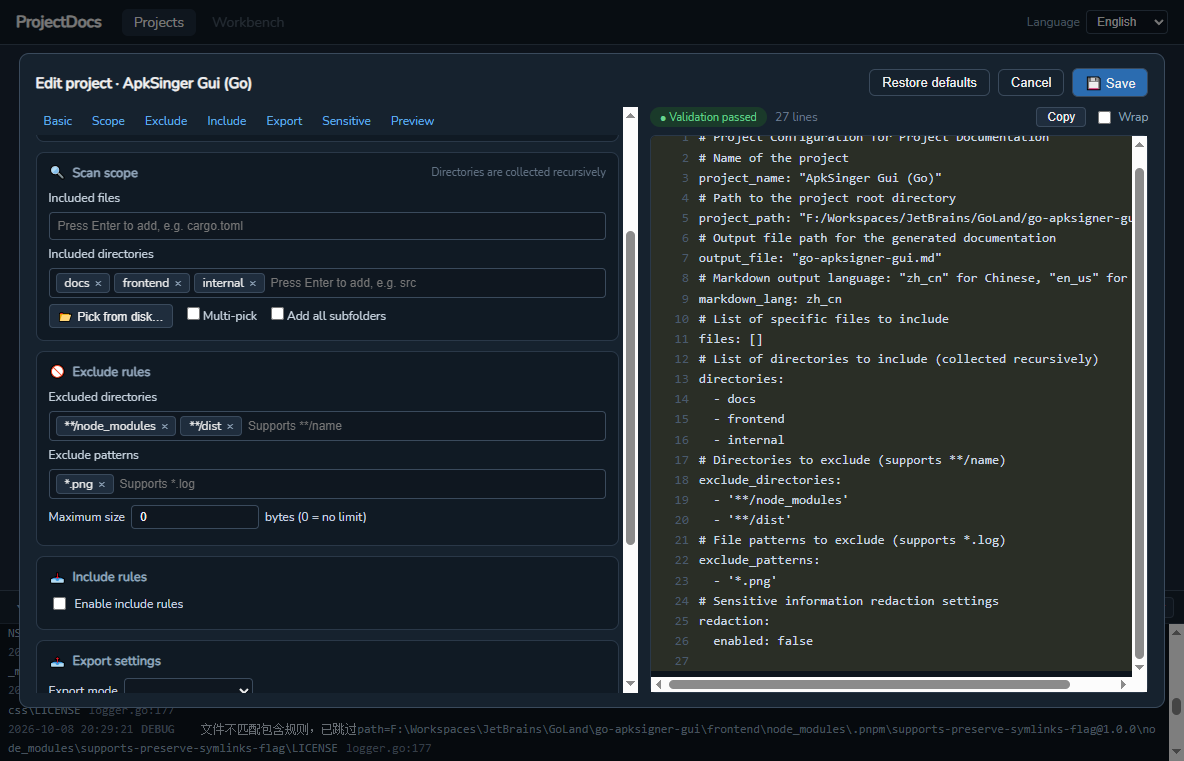
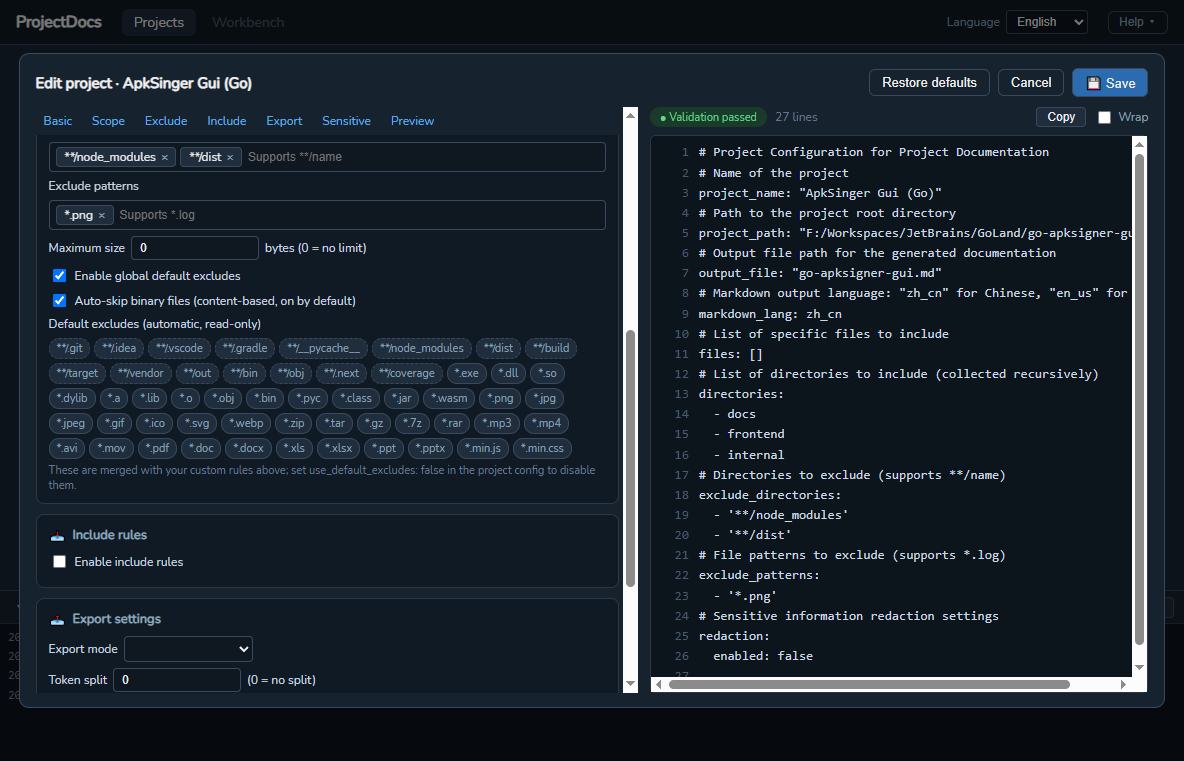
Update screenshot and README

diff --git a/README.zh-CN.md b/README.zh-CN.md
@@ -1,0 +1,169 @@
+# Project Docs GUI（项目文档聚合工具）
+
+[English](README.md) | 简体中文
+
+把本地任意项目聚合成一份干净、结构清晰的 Markdown 文档——完整源码（含文件树）、文件清单或符号索引——可直接粘贴到在线 LLM，用于代码审查、问答或文档整理。
+
+整个流程都在一个桌面应用内完成：选择项目目录，勾选需要的文件，挑选导出模式，一键导出。敏感信息在落盘前自动剥离，Token 用量在导出前提前预估，超大文档可自动拆分。
+
+- 界面语言：**English / 中文 / 日本語**；文档语言：**简体中文 (zh_cn)** 或 **English (en_us)**
+
+## 截图
+
+**项目管理**——管理项目配置，进入工作台：
+
+![项目管理](dosc/images/projects-view.png)
+
+**项目编辑器**——左侧可视化表单与右侧配置实时镜像；包含范围、排除、包含、导出、敏感信息等标签页：
+
+![编辑器](dosc/images/edit-dialog.png)
+
+**工作台**——文件树、导出选项与结果同屏呈现：
+
+![工作台](dosc/images/workbench.png)
+
+**导出模式与敏感数据扫描**——可选 full / files / symbols / signatures；开启脱敏但尚未扫描时，导出前会先提示：
+
+![导出模式](dosc/images/workbench-export.png)
+
+## 功能
+
+| 编号 | 功能 | 说明 |
+|------|------|------|
+| F1 | 完整代码导出 | 所有勾选文件聚合为一份 Markdown（文件树 + 文件内容），输出与旧版 Rust 工具逐字节一致 |
+| F2 | 文件清单导出 | 仅路径与文件树，附带每个文件的语言、行数与大小 |
+| F99 | 敏感信息脱敏 | 检测密码 / API Key / Token 等并在导出前替换；应用内扫描，命中结果以掩码抽屉展示 |
+| F4 | Token 预估与拆分 | ≈Token 预估（±20%），按文件为最小单位贪心拆分 |
+| F3 | 符号与签名导出 | 逐文件符号索引（函数 / 类 / 结构体）及规范化 API 签名，两种轻量结构总览模式 |
+
+导出模式：`full` · `files` · `symbols` · `signatures`。
+
+## 界面结构
+
+两个视图，通过顶部标签页切换：
+
+- **项目管理（Projects）**——项目配置卡片网格；通过 3 步向导创建（含系统原生目录选择对话框），通过可视化编辑器编辑，删除有二次确认。底部停靠应用内日志面板。
+- **工作台（Workbench）**——三栏布局，一切同屏：
+  - 左：项目信息 + 可折叠文件树（级联勾选、搜索、全选 / 反选 / 仅代码）
+  - 中：导出模式卡片、敏感信息脱敏选项（扫描 → 掩码命中抽屉）、Token 拆分控制
+  - 右：导出前的内容大纲预览；导出后切换为结果卡片（打开目录 / 复制路径 / 重新导出）
+  - 底部状态栏：实时勾选统计（数量 · 大小 · ≈Token）+ 导出操作
+
+## 技术栈
+
+- **后端**：Go 1.22+、Wails v2、`gopkg.in/yaml.v3`、goroutine 工作池、`log/slog` + 滚动日志文件
+- **前端**：Vue 3 + TypeScript + Pinia + vue-router + Vite（pnpm）
+
+## 项目结构
+
+```
+├── main.go                       # Wails GUI 入口
+├── app/app.go                    # 薄 Wails 绑定层（对话框、扫描、导出、YAML 镜像）
+├── core/                         # 纯 Go，可独立测试（不 import Wails）
+│   ├── config/                   # 项目配置加载/校验/保存 + 带注释模板的 YAML 写出
+│   ├── scanner/                  # 文件扫描、排除规则、并行读取
+│   ├── generator/                # Markdown 生成（full/files 等模式）+ 文件树
+│   ├── symbol/                   # 多语言符号提取（正则 v1）
+│   ├── redactor/                 # 敏感信息检测与脱敏引擎
+│   ├── token/                    # Token 预估与拆分
+│   └── logger/                   # slog 控制台 + 滚动文件
+├── config/
+│   ├── langs.yml                # 扩展名 → 语言映射
+│   ├── exclude_defaults.yml     # 全局默认排除规则（自动合并）
+│   └── projects/                # 示例项目配置（*.yml）
+├── frontend/
+│   ├── src/views/                # ProjectsView / Workbench / FileTree / Wizard / SensitiveDrawer
+│   ├── src/components/editor/    # 可视化项目编辑器（表单 + 实时 YAML 预览）
+│   ├── src/components/LogPanel   # 应用内日志停靠面板
+│   └── src/api/bindings.ts       # 对 window.go.app.App 的手写封装
+├── dosc/                         # 设计文档与截图
+├── COMMIT.md                     # 待提交变更的提交信息
+└── build.ps1                     # 一键构建脚本（Go + pnpm → build/bin/）
+```
+
+## 构建
+
+环境要求：**Go 1.22+**、**Node + pnpm**，可选 **Wails v2 CLI**（缺失时脚本会自动安装）。
+
+```powershell
+.\build.ps1                # 完整构建 → build/bin/
+.\build.ps1 -Clean         # 先清空 build/bin/
+.\build.ps1 -SkipInstall   # 跳过 pnpm install
+.\build.ps1 -SkipFrontend  # 跳过前端构建（复用 frontend/dist）
+.\build.ps1 -Package       # 同时构建 NSIS 安装包（需 makensis）
+```
+
+产物位于 `build/bin/`：
+
+```
+build/bin/
+├── project-docs-gui.exe    # 桌面 GUI（Wails）
+└── config/
+    ├── langs.yml           # 运行时语言映射（exe 必需）
+    ├── exclude_defaults.yml # 默认排除规则（应用于每次扫描）
+    └── projects/*.yml      # 示例项目配置
+```
+
+## 使用
+
+### GUI
+
+运行 `build\bin\project-docs-gui.exe`。默认项目目录为 `config/projects`（相对于 exe 的工作目录）。
+
+1. **项目管理视图**：点击 `＋ 新建项目配置` 启动向导（用原生对话框选择目录——名称与输出文件名自动填充），或点击 `✏ 编辑` 打开可视化编辑器：左侧表单与右侧 YAML 预览实时同步；保存时执行校验与仅计数的预扫描。
+2. **进入工作台 ▸**：在文件树中确认勾选（搜索 / 全选 / 仅代码过滤），选择导出模式，按需执行敏感信息扫描（命中项在掩码抽屉中展示；开启脱敏但未扫描时，导出前会先提示），最后点击 `执行导出`。
+3. **结果**：右栏切换为结果卡片——输出路径、字符数、≈Token、耗时——并提供 `打开目录` / `复制路径` / `重新导出`。
+
+进度与错误会内联展示并镜像到日志停靠面板；路径为空或非法时会给出明确错误提示。
+
+## 配置
+
+项目配置（`config/projects/*.yml`）。GUI 编辑器通过 YAML 预览写出与此完全一致的结构（带英文注释模板）：
+
+```yaml
+project_name: "My Project"
+project_path: "C:/Workspaces/my-project"
+output_file: "my_project.md"
+markdown_lang: zh_cn            # zh_cn | en_us
+files: [cargo.toml]             # 单文件
+directories: [src]              # 递归目录
+exclude_directories: ["**/444"] # 整目录剪枝；"**/name" 匹配任意层级
+exclude_patterns: ["*.log"]     # glob（* / ?）或相对路径前缀匹配
+max_file_size: 1048576          # 字节；0/缺省 = 不限制
+
+# ─── v2 ───
+export_mode: full               # full | files | symbols | signatures | custom
+redaction:
+  enabled: true
+  placeholder: "[REDACTED]"
+  strategy: placeholder         # placeholder | drop_line
+  allowlist: []                 # 已确认的误报："relpath:line:rule"
+  custom_patterns: []           # 额外的 RE2 正则
+split_tokens: 0                 # >0 启用拆分，如 100000
+```
+
+## 敏感信息脱敏（F99）
+
+按设计分为两阶段——绝不静默改写代码：
+
+1. **扫描**：内置规则（密码赋值、AWS 密钥、GitHub PAT、OpenAI 密钥、Slack Token、JWT、PEM 块、数据库连接串、Basic/Bearer 认证）在抽屉中报告掩码后的命中结果——明文绝不进入界面或日志。
+2. **确认并导出**：命中项替换为 `[REDACTED]`（或通过 `strategy: drop_line` 整行删除）。PEM 块整体替换。已确认的误报写入 `redaction.allowlist`（键为 `relpath:line:rule`），之后跳过。日志只记录数量与规则名。
+
+内置误报抑制：值中包含 `your_`、`xxx`、`example`、`changeme`、`placeholder`、`dummy`、`test123`、`${...}`、`{{...}}` 或环境变量引用（`process.env`、`os.Getenv`、`import.meta.env`）的会被忽略。
+
+## 开发
+
+```powershell
+go test ./core/...          # 单元测试（generator 黄金快照回归、symbol、redactor、token）
+wails dev                   # GUI 热重载开发
+cd frontend && pnpm dev     # 仅前端开发服务器
+```
+
+设计文档（UI 重构、导出模式、编辑器对话框）位于 `dosc/`。
+
+## 备注与限制
+
+- 基于正则的符号提取是启发式的（作为给 LLM 的目录级参考，允许漏报）；规划了 tree-sitter 升级路径。
+- Token 预估误差 ±20%，仅用于容量规划。
+- `full` 模式在超大项目上可能产生非常大的文件——建议使用 `split_tokens`。
+- 扫描路径统一以 `/` 分隔符存储以保证跨平台输出一致；仅 `full` 模式的文件标题保留原生分隔符（与旧版 Rust 输出逐字节一致）。

diff --git a/README.md b/README.md
@@ -1,6 +1,12 @@
 # Project Docs GUI
 
-Aggregate source code from your projects into a single, clean Markdown file — ready to feed to online LLMs for analysis. Desktop GUI (Wails), written in Go with a Vue 3 + TypeScript frontend. Rewritten from the original Rust console tool `markdown_my_project`.
+English | [简体中文](README.zh-CN.md)
+
+Turn any local project into one clean, well-structured Markdown document — full source with file tree, a file manifest, or a symbol index — ready to paste into an online LLM for code review, Q&A, or documentation.
+
+The whole workflow lives in a single desktop app: point at a project directory, tick the files that matter, pick an export mode, and export. Secrets are stripped before anything is written, token usage is estimated before you commit, and oversized output can be split into chunks automatically.
+
+- UI in **English / 中文 / 日本語**; documents in **简体中文 (zh_cn)** or **English (en_us)**
 
 ## Screenshots
 
@@ -8,13 +14,17 @@ Aggregate source code from your projects into a single, clean Markdown file — 
 
 ![Projects view](dosc/images/projects-view.png)
 
-**Project editor** — visual form (left) mirroring `project.yml` in real time (right):
+**Project editor** — visual form (left) mirroring the project config in real time (right); scope, exclude, include, export and sensitive-info tabs:
 
 ![Edit dialog](dosc/images/edit-dialog.png)
 
 **Workbench** — file tree, export options and result in one screen:
 
 ![Workbench](dosc/images/workbench.png)
+
+**Export modes & sensitive-data scan** — pick full / files / symbols / signatures; exporting with redaction on but unscanned prompts first:
+
+![Workbench export modes](dosc/images/workbench-export.png)
 
 ## Features
 
@@ -24,9 +34,9 @@ Aggregate source code from your projects into a single, clean Markdown file — 
 | F2 | File manifest export | Paths/file tree only, with per-file language, line count and size |
 | F99 | Secret redaction | Detects passwords/API keys/tokens and strips them before export; in-app scan with masked-hit drawer |
 | F4 | Token estimate & split | ≈Token estimation (±20%) and greedy chunking by file units |
-| F3 | Symbol export | Function/class/struct names per file (regex-based) — **planned, under development** (UI entry exists, backend pending) |
+| F3 | Symbol & signature export | Per-file symbol index (functions/classes/structs) plus normalized API signatures — two lightweight structural-overview modes |
 
-Export modes: `full` · `files` · `symbols`\* · `signatures`\* · `custom` (\* = not yet implemented in the backend; selecting them returns an error).
+Export modes: `full` · `files` · `symbols` · `signatures`.
 
 ## UI Structure
 
@@ -153,8 +163,7 @@ Design documents (UI redesign, output modes, editor dialog) live in `dosc/`.
 
 ## Notes & Limitations
 
-- `symbols` / `signatures` export modes have UI entries but the backend templates are still under development (see `dosc/2026-10-07-output-mode.md`); selecting them returns an error for now.
-- Regex-based symbol extraction is heuristic (directory-level reference for LLMs, misses are acceptable); a tree-sitter upgrade path is planned.
+- Regex-based symbol extraction is heuristic (a directory-level reference for LLMs; misses are acceptable); a tree-sitter upgrade path is planned.
 - Token estimation is ±20%, for capacity planning only.
 - `full` mode on huge projects may produce very large files — prefer `split_tokens`.
 - Scanned paths are stored with `/` separators for cross-platform output; only `full`-mode file headings keep native separators (byte-compat with the legacy Rust output).
